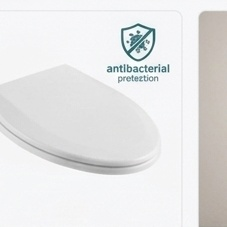
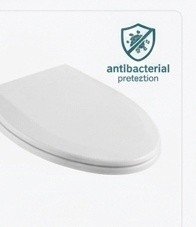
3

diff --git a/script.js b/script.js
@@ -124,9 +124,9 @@ const PRODUCTS = [
   { id:23, name:'LED Recessed Downlight 12W',        category:'lighting',     price:2.500,  img:'Rawaj Products/SKU-0023.jpg', desc:'12W recessed LED downlight, 90mm cut-out, 3000K warm white. Ultra-slim design, tool-free spring clips.', badge:null, stock:'in-stock' },
   { id:24, name:'LED Strip Light 5m 12V',            category:'lighting',     price:3.800,  img:'Rawaj Products/SKU-0024.jpg', desc:'5-metre 12V LED strip, 300 LEDs, warm white, self-adhesive backing. Cuttable every 50mm.', badge:'Popular', stock:'in-stock' },
   { id:25, name:'LED Panel Light 18W 30x30cm',       category:'lighting',     price:4.500,  img:'Rawaj Products/SKU-0025.jpg', desc:'18W 300x300mm slim LED panel, 1600 lumens, 6500K daylight. For false ceilings and offices.', badge:null, stock:'in-stock' },
-  { id:26, name:'LED Tube Light 18W 120cm',          category:'lighting',     price:2.200,  img:UL(26), desc:'18W T8 LED tube 120cm, 1800 lumens, 6500K. Direct wire replacement, no ballast required.', badge:null, stock:'in-stock' },
+  { id:26, name:'LED Tube Light 18W 120cm',          category:'lighting',     price:2.200,  img:'Rawaj Products/SKU-0026.jpg', desc:'18W T8 LED tube 120cm, 1800 lumens, 6500K. Direct wire replacement, no ballast required.', badge:null, stock:'in-stock' },
   { id:27, name:'Smart RGB LED Bulb E27 10W',        category:'lighting',     price:3.200,  img:UL(27), desc:'WiFi smart LED bulb with 16 million colours and warm white. Works with Alexa and Google Home.', badge:null, stock:'in-stock' },
-  { id:28, name:'LED Outdoor Bulb IP65 12W',         category:'lighting',     price:1.500,  img:'Rawaj Products/SKU-0028.jpg', desc:'IP65 waterproof 12W E27 LED bulb. For garden, porch and exterior fittings. Dust and rain proof.', badge:null, stock:'in-stock' },
+  { id:28, name:'LED Outdoor Bulb IP65 12W',         category:'lighting',     price:1.500,  img:UL(28), desc:'IP65 waterproof 12W E27 LED bulb. For garden, porch and exterior fittings. Dust and rain proof.', badge:null, stock:'in-stock' },
   // ── TAPS & MIXERS (29-38) ─────────────────────────────────────────────────
   { id:29, name:'Basin Mixer Tap Chrome',            category:'taps',         price:9.800,  img:'Rawaj Products/SKU-0029.jpg', desc:'Single lever basin mixer, chrome finish, solid brass body. 35mm ceramic cartridge, 1/2" hot and cold inlets.', badge:'Best Seller', stock:'in-stock' },
   { id:30, name:'Kitchen Sink Mixer Tap',            category:'taps',         price:11.500, img:UL(30), desc:'Single lever kitchen mixer with 360° swivel spout. Chrome brass, ceramic disc, easy install flexible tails.', badge:null, stock:'in-stock' },